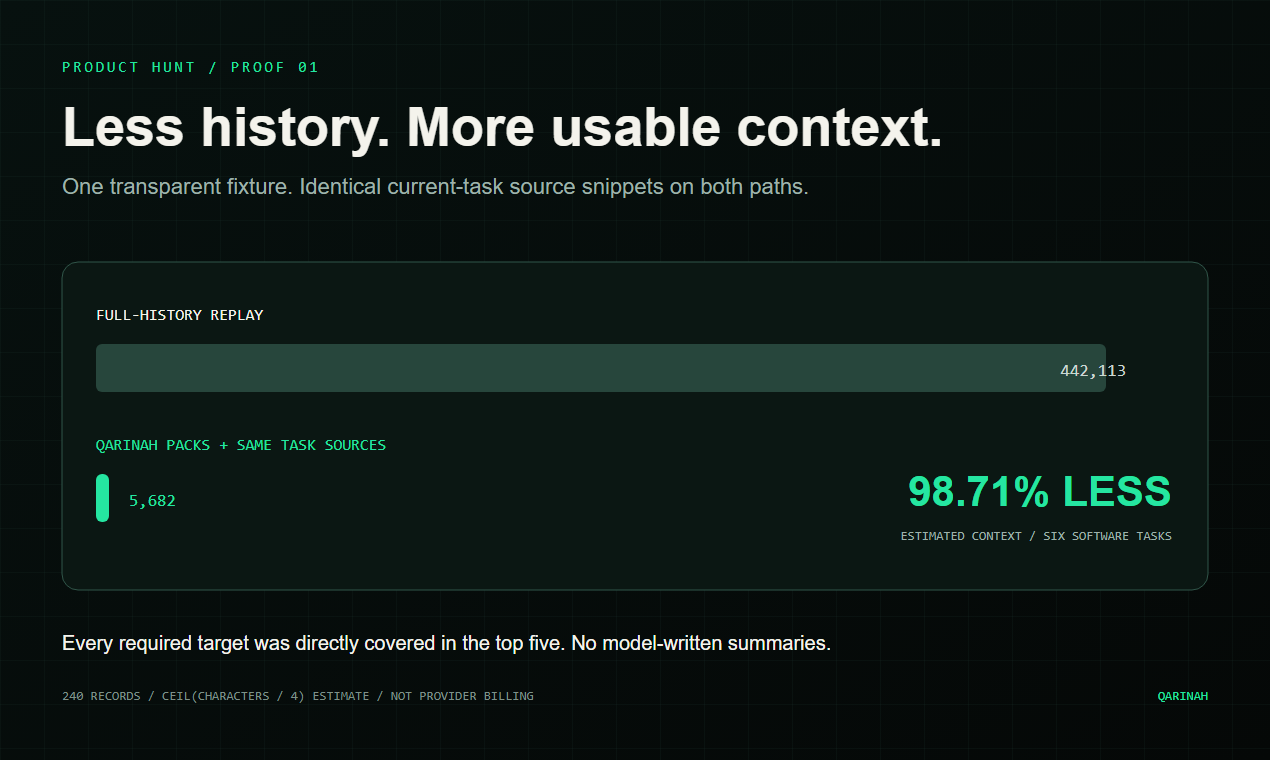
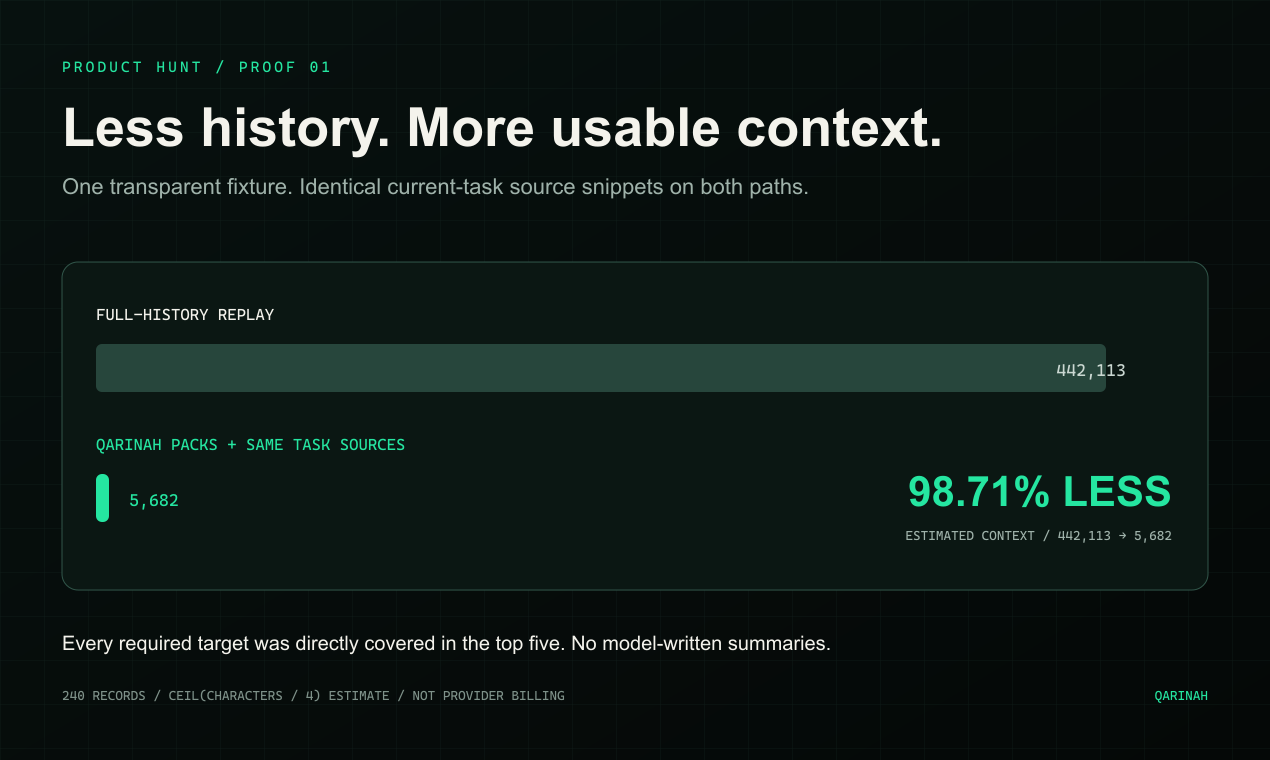
docs: lead with the 98.71% result (#41)

diff --git a/docs/launch/PLATFORM-COPY.md b/docs/launch/PLATFORM-COPY.md
@@ -8,9 +8,9 @@ Do not publish these drafts until the gates in [../LAUNCH.md](../LAUNCH.md) are 
 
 **Proof tagline:** Nearly 99% less repeated project context. Every selected memory points back to its source.
 
-**GitHub About:** 98.71% less estimated context in our six-task benchmark - local, cited, graph-aware project memory for Codex, Claude Code, and CLI workflows, with MCP diagnostics.
+**GitHub About:** 98.71% less estimated context - local, cited, graph-aware project memory for Codex, Claude Code, and CLI workflows, with MCP diagnostics.
 
-**npm description:** 98.71% less estimated context in our six-task benchmark - local, cited project memory for Codex, Claude Code, and CLI workflows.
+**npm description:** 98.71% less estimated context - local, cited project memory for Codex, Claude Code, and CLI workflows.
 
 **Short:** Qarinah is local-first project memory for AI agents. It records permitted activity and explicit decisions in an evidence-linked ledger, then compiles a small cited pack for the next task.
 
@@ -23,7 +23,7 @@ Hacker News asks users not to post generated or AI-edited text. Do not paste thi
 - Product: an append-only local event chain plus rebuildable graph, index, Markdown, and OKF projections.
 - Retrieval: BM25, typo-tolerant character trigrams, graph evidence, reciprocal-rank fusion, diversity, supersession, conflict, retention, time, authority, and explicit coverage checks.
 - Security: project opt-in and machine-local trust, metadata-only default, bounded redaction, read-only MCP diagnostics, and no hidden reasoning capture.
-- Benchmark: 98.71% less estimated context in six committed fixtures, with identical task sources and every target directly covered in the top five; not provider billing.
+- Benchmark: 98.71% less estimated context, with identical task sources and every target directly covered in the top five; not provider billing.
 - Ask: which real project should become the first independently reproduced fixture, and which missing-evidence failure should become a test?
 
 Possible factual title to rewrite:
@@ -46,14 +46,14 @@ Possible factual title to rewrite:
 
 I built Qarinah because agent memory usually fails in two directions: the next model receives the entire noisy history, or it receives a short summary with no evidence trail. Qarinah keeps the source record separate from the compiled pack. The ledger is local and append-only; graph, index, Markdown, and OKF views are rebuildable; every selected item cites its event ID and hash.
 
-The committed six-task fixture cut 442,113 estimated input-context tokens to 5,682 while keeping every required target directly covered in the top five. That is 98.71% less repeated context and 77.81:1 context compression. At the same flat uncached input-token price, the context-input portion costs 98.71% less to send. I want real-project feedback on missing evidence, setup friction, and second-session usefulness.
+442,113 estimated input-context tokens became 5,682 while every required target remained directly covered in the top five. That is 98.71% less repeated context and 77.81:1 context compression. At the same flat uncached input-token price, the context-input portion costs 98.71% less to send. I want real-project feedback on missing evidence, setup friction, and second-session usefulness.
 
 ## X thread
 
 1. Stop replaying entire agent histories. Qarinah gives a later agent the smallest cited project context it needs - not the whole transcript and not an opaque rolling summary.
 2. Permitted prompts, tool outcomes, approvals, sources, decisions, compactions, and project structure enter a local hash-chained event record. Metadata-only capture is the default.
 3. Graph, index, Markdown, and OKF views are deterministic and disposable. Every selected context item points back to an event ID and content hash.
-4. In six committed software-task fixtures, Qarinah packs plus identical task sources used 5,682 estimated tokens versus 442,113 for full-history replay: 98.71% less estimated context, with every target directly covered in the top five.
+4. Qarinah packs plus identical task sources used 5,682 estimated tokens versus 442,113 for full-history replay: 98.71% less estimated context, with every target directly covered in the top five.
 5. The estimate is `ceil(characters / 4)`, not provider billing. Qarinah does not capture hidden reasoning, grant itself disclosure authority, or require a Qarinah API key.
 6. Public alpha install and plugin links: [ADD ONLY AFTER VERIFIED RELEASE]
 
@@ -63,7 +63,7 @@ The hardest context problem in agent work is not storage. It is deciding what th
 
 Qarinah keeps a local, append-only record of permitted agent activity and explicit project decisions. It rebuilds graph, index, Markdown, and OKF views deterministically, then compiles a bounded pack whose selected items cite the source event and hash.
 
-Across six committed software-task fixtures, the Qarinah path used 98.71% less estimated context than replaying the full history while keeping every required target directly covered in the top five. The measurement uses a transparent characters-divided-by-four estimate, not provider billing.
+The Qarinah path used 98.71% less estimated context than replaying the full history while keeping every required target directly covered in the top five. The measurement uses a transparent characters-divided-by-four estimate, not provider billing.
 
 The public alpha will support Codex and Claude Code plugins, a CLI, and read-only MCP diagnostics. Capture is opt-in per project, metadata-only by default, and requires machine-local trust. I am looking for developers willing to reproduce the fixture and report the first missing piece of evidence on a real codebase.
 
@@ -73,7 +73,7 @@ The public alpha will support Codex and Claude Code plugins, a CLI, and read-onl
 
 I maintain Qarinah, an Apache-2.0 context compiler for software agents. It records only permitted host events and explicit decisions in a local hash-chained JSONL ledger. Graph, index, Markdown, project structure, and OKF are rebuildable projections. Queries return bounded packs with event IDs and hashes, and can fail closed when evidence coverage is insufficient.
 
-The committed six-task fixture compares identical current-task sources plus either full history or a Qarinah pack: 442,113 versus 5,682 estimated input tokens, a 98.71% reduction. Every required target ranked in the top five with direct coverage, and no model-written summaries were used. The estimate is `ceil(chars/4)`, not a provider bill.
+The benchmark compares identical current-task sources plus either full history or a Qarinah pack: 442,113 versus 5,682 estimated input tokens, a 98.71% reduction. Every required target ranked in the top five with direct coverage, and no model-written summaries were used. The estimate is `ceil(chars/4)`, not a provider bill.
 
 I would value a reproducible missing-evidence case or a critique of the consent, rollback, or disclosure boundary. [ADD PUBLIC REPOSITORY LINK AFTER RELEASE]
 
@@ -87,7 +87,7 @@ I would value a reproducible missing-evidence case or a critique of the consent,
 4. record one decision and one tool outcome;
 5. compile a direct-coverage pack and inspect citations;
 6. delete and rebuild the derived views;
-7. reproduce the six-task benchmark; and
+7. reproduce the published benchmark; and
 8. state token-estimation, retrieval-quality, and disclosure limits.
 
 ## YouTube

diff --git a/README.md b/README.md
@@ -24,12 +24,12 @@
 
 <p align="center">
   <strong>What if your coding agents could send 98.71% less repeated project context?</strong><br>
-  Qarinah's six-task benchmark cut 442,113 estimated input-context tokens to 5,682 - 77.81:1 context compression with every required target directly covered in the top five.
+  442,113 estimated input-context tokens became 5,682 - 98.71% less repeated context and 77.81:1 context compression, with every required target directly covered in the top five.
 </p>
 
 <p align="center"><em>Nearly 99% less repeated context. Every selected memory points back to its source.</em></p>
 
-> Successfully verified across React editing, database migration, TypeScript refactoring, web research, production debugging, and governed release work. The benchmark sent 436,431 fewer estimated input-context tokens across those six runs. At a flat $1 per million uncached input tokens, that compared context slice moves from $0.4421 to $0.0057 - 98.71% less input-context cost under the same unit price. The percentage is independent of the chosen flat unit price; the portable token estimate excludes output, tools, caching, and fixed provider charges. See the [machine-readable result](bench/results/software-task-context-0.1.0-alpha.3.json) and [methodology](docs/BENCHMARKS.md).
+> Successfully verified across React editing, database migration, TypeScript refactoring, web research, production debugging, and governed release work. The evaluated tasks sent 436,431 fewer estimated input-context tokens. At a flat $1 per million uncached input tokens, that compared context slice moves from $0.4421 to $0.0057 - 98.71% less input-context cost under the same unit price. The percentage is independent of the chosen flat unit price; the portable token estimate excludes output, tools, caching, and fixed provider charges. See the [machine-readable result](bench/results/software-task-context-0.1.0-alpha.3.json) and [methodology](docs/BENCHMARKS.md).
 
 Your project already contains the decisions and evidence behind its changes. Qarinah lets the next agent query that record and receive a bounded, cited pack selected for the current task.
 

diff --git a/docs/LAUNCH.md b/docs/LAUNCH.md
@@ -6,7 +6,7 @@ Qarinah is preparing an Apache-2.0 alpha. Do not publish an npm package, public 
 
 > Stop replaying entire agent histories.
 
-Qarinah turns permitted project activity and explicit decisions into small, cited context packs. Its committed six-task fixture used 98.71% less estimated context than full-history replay while keeping every required target in the top five with direct evidence coverage. The estimate is `ceil(characters / 4)`, not provider billing or a universal cost claim.
+Qarinah turns permitted project activity and explicit decisions into small, cited context packs. It used 98.71% less estimated context than full-history replay while keeping every required target in the top five with direct evidence coverage. The estimate is `ceil(characters / 4)`, not provider billing or a universal cost claim.
 
 The complete channel copy, media assignments, and claims gate are in [`docs/launch/`](launch/README.md).
 
@@ -56,7 +56,7 @@ Use:
 - "Small cited context packs instead of entire transcripts."
 - "Local-first and no Qarinah API key."
 - "Maqam governs. Cockroach gathers. Qarinah remembers. ProductLoop orchestrates."
-- "98.71% fewer estimated context tokens than full-history replay across six committed software-task fixtures," with the identical-source, top-five/direct-coverage, and `ceil(characters / 4)` details beside it.
+- "98.71% fewer estimated context tokens than full-history replay," with the identical-source, top-five/direct-coverage, and `ceil(characters / 4)` details available in the linked methodology.
 - "At a flat $1 per million uncached input tokens, the compared context slice moves from $0.442113 to $0.005682 - 98.71% less input-context cost under the same unit price," only as a transparent translation of the committed estimate.
 
 Avoid:

diff --git a/docs/launch/MEDIA-MATRIX.md b/docs/launch/MEDIA-MATRIX.md
@@ -6,7 +6,7 @@
 | Product Hunt thumbnail | `assets/launch/qarinah-product-hunt-thumbnail.svg` and `.png` | 240 x 240 | Square mark and name |
 | General wide brand visual | `assets/brand/qarinah-brand-board.png` | 1672 x 941 | Website hero, press kit, and video backdrop |
 | Architecture gallery | `assets/architecture/qarinah-flow.svg` | Vector | Capture-to-pack system map |
-| Product Hunt gallery 1 | `assets/launch/qarinah-product-hunt-01-proof.svg` and `.png` | 1270 x 760 | Scoped six-task benchmark proof |
+| Product Hunt gallery 1 | `assets/launch/qarinah-product-hunt-01-proof.svg` and `.png` | 1270 x 760 | Scoped benchmark proof |
 | Product Hunt gallery 2 | `assets/launch/qarinah-product-hunt-02-retrieval.svg` and `.png` | 1270 x 760 | Hybrid retrieval and evidence-linked pack |
 | Product Hunt gallery 3 | `assets/launch/qarinah-product-hunt-03-boundary.svg` and `.png` | 1270 x 760 | Consent, supported hosts, and exclusions |
 
@@ -14,7 +14,7 @@ Before Product Hunt, verify all three 1270 x 760 gallery images and the square 2
 
 ## Alt text
 
-**Social preview:** Qarinah turns a large agent-history stream into a small cited context pack, with the six-task fixture reporting 98.71 percent less estimated context.
+**Social preview:** Qarinah turns a large agent-history stream into a small cited context pack with 98.71 percent less estimated context.
 
 **Architecture:** Supported host events cross explicit capture policy into a hash-chained record, rebuildable graph and index views, and a bounded cited context pack.
 

diff --git a/docs/launch/CLAIMS-CHECKLIST.md b/docs/launch/CLAIMS-CHECKLIST.md
@@ -19,7 +19,7 @@
 
 ## Benchmark wording
 
-- [ ] Use: “98.71% less estimated context across six committed software-task fixtures.”
+- [ ] Use: “98.71% less estimated context.”
 - [ ] State 240 records, 442,113 versus 5,682 estimated tokens, identical task sources, top-five direct coverage, no model-written summaries, and `ceil(characters / 4)`.
 - [ ] If translating the result to cost, use the explicit flat-price example: $0.442113 versus $0.005682 at $1 per million uncached input tokens for the compared context slice.
 - [ ] Do not call the result provider-native Codex/Claude usage, a provider bill, total AI cost savings, universal retrieval quality, or a production guarantee.

diff --git a/docs/ECOSYSTEM-LAUNCH.md b/docs/ECOSYSTEM-LAUNCH.md
@@ -40,7 +40,7 @@ This is the repeatable Qarinah tagline. It is short enough for GitHub, npm, the 
 
 ### Current proof line
 
-> **98.71% fewer estimated context tokens than full-history replay across six committed software-task fixtures.**
+> **98.71% fewer estimated context tokens than full-history replay.**
 
 Keep the direct details beside the number: identical current-task source snippets on both sides; full-history replay versus cited Qarinah packs; 442,113 versus 5,682 estimated tokens; every target in the top five with direct coverage; zero model-written summary items; `ceil(characters / 4)` estimate rather than provider billing.
 

diff --git a/docs/launch/README.md b/docs/launch/README.md
@@ -12,7 +12,7 @@ Qarinah keeps permitted project activity and explicit decisions in a local evide
 
 ## Proof line
 
-> 98.71% less estimated context across six committed software-task fixtures.
+> 98.71% less estimated context.
 
 Keep the scope beside the number: identical current-task source snippets in both paths; 442,113 estimated tokens for full-history replay versus 5,682 for Qarinah packs plus the same sources; every required target in the top five with direct coverage; no model-written summaries; `ceil(characters / 4)` estimation.
 
